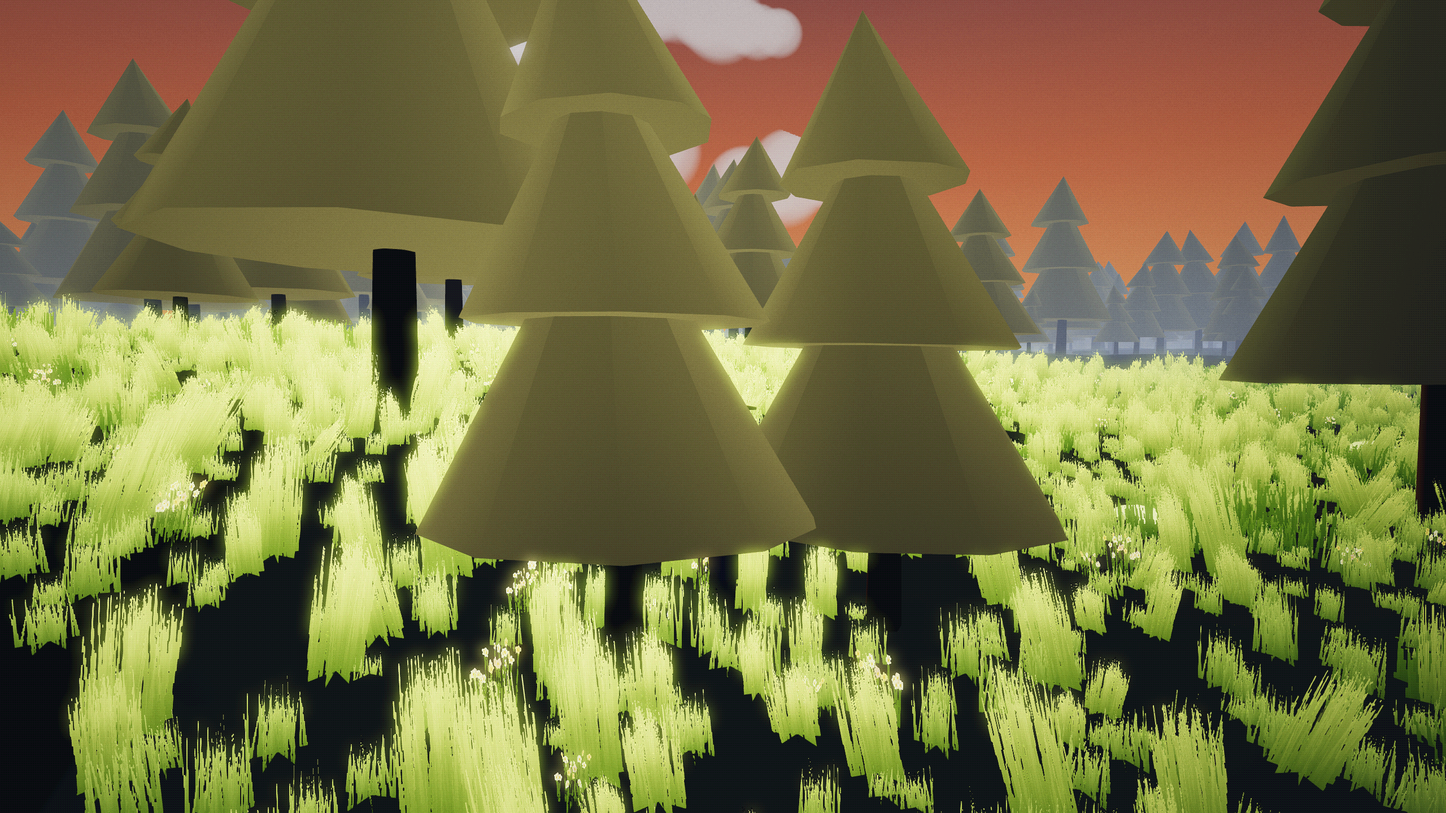
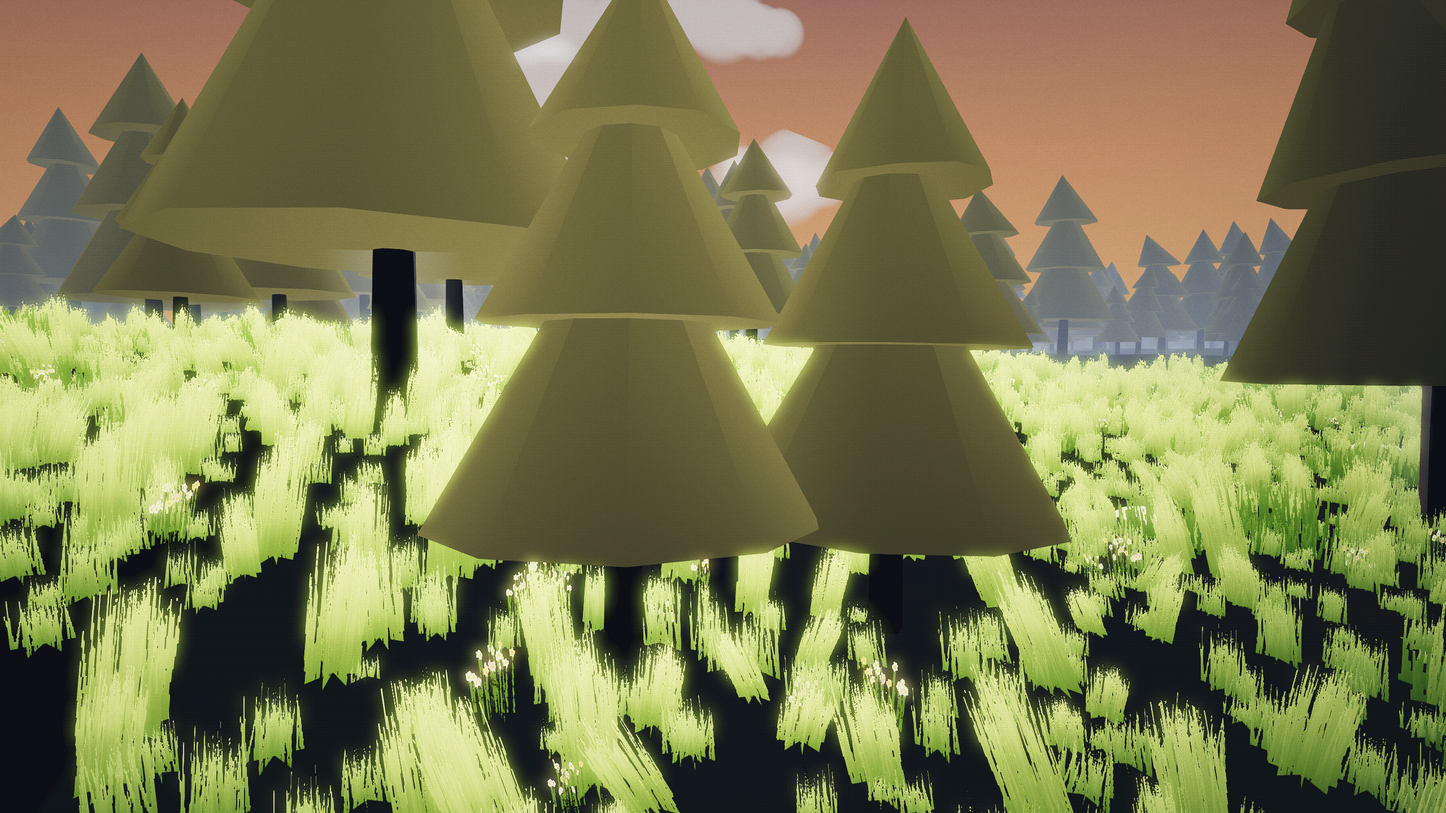
LA ROUTE : plus de trous noirs, lever adouci, et les réglages dans F1
- haze.js : plancher de ciel diffus sur tout le décor. Sous un soleil
  rasant une surface horizontale reçoit N·L ~ 0 et tombe au noir ; le ciel
  éclaire toujours un peu. Sans ce terme, l'aube et le couchant creusaient
  des trous noirs entre les touffes. Le plancher suit l'ambiante du moment.
- grass.js : même plancher sur les brins — leurs cartes ont une normale
  verticale, ils étaient les premiers à s'éteindre au rasant.
- Palettes de lever et de couchant adoucies : à saturation 1,3 le rouge
  brique virait à la tomate.
- overlay F1 : les trois leviers d'étalonnage sont maintenant des curseurs
  vivants — heure, saturation, brume, bloom. Les anciens curseurs soleil et
  brume écrivaient des valeurs que le cycle jour/nuit réécrit chaque frame,
  ils étaient devenus inopérants.

Claude-Session: https://claude.ai/code/session_01XWhNifPuTPP1yCtC4v4JtE

diff --git a/la-route/src/ui/overlay.js b/la-route/src/ui/overlay.js
@@ -14,20 +14,31 @@ export function createOverlay(engine, scene, refs) {
     <div style="letter-spacing:.3em;color:#ffb066;margin-bottom:6px">LA ROUTE — PERF</div>
     <canvas id="fg" width="256" height="64" style="display:block;background:rgba(0,0,0,.35);border-radius:4px"></canvas>
     <div id="stats" style="margin:8px 0"></div>
-    <label style="display:block">soleil <input id="sunA" type="range" min="-80" max="80" value="-20" style="width:150px"></label>
-    <label style="display:block">brume <input id="fogD" type="range" min="0" max="40" value="6" style="width:150px"></label>
+    <label style="display:block">heure <input id="tod" type="range" min="0" max="1000" value="400" style="width:150px"></label>
+    <label style="display:block">saturation <input id="sat" type="range" min="80" max="200" value="130" style="width:150px"></label>
+    <label style="display:block">brume <input id="haze" type="range" min="0" max="200" value="55" style="width:150px"></label>
+    <label style="display:block">bloom <input id="bloom" type="range" min="0" max="120" value="42" style="width:150px"></label>
   `;
   document.body.appendChild(root);
 
   const fg = root.querySelector('#fg').getContext('2d');
   const stats = root.querySelector('#stats');
 
-  root.querySelector('#sunA').addEventListener('input', (e) => {
-    const a = (+e.target.value) * Math.PI / 180;
-    refs.sun.direction.set(Math.sin(a) * 0.8, -Math.max(0.12, Math.cos(a) * 0.5), 0.75);
+  // Les trois leviers d'étalonnage : à caler sur l'écran du joueur, puisque
+  // le rendu de développement (WebGL logiciel) est plus terne que le vrai.
+  // L'ancien curseur « soleil » écrivait sun.direction, que le cycle
+  // jour/nuit réécrit chaque frame — il est remplacé par l'heure elle-même.
+  root.querySelector('#tod').addEventListener('input', (e) => {
+    if (refs.weather) refs.weather.setTime((+e.target.value) / 1000);
   });
-  root.querySelector('#fogD').addEventListener('input', (e) => {
-    refs.fog.fogDensity = (+e.target.value) / 1000;
+  root.querySelector('#sat').addEventListener('input', (e) => {
+    if (refs.retro) refs.retro.cfg.sat = (+e.target.value) / 100;
+  });
+  root.querySelector('#haze').addEventListener('input', (e) => {
+    if (refs.haze) refs.haze.scale = (+e.target.value) / 55;
+  });
+  root.querySelector('#bloom').addEventListener('input', (e) => {
+    if (refs.post) refs.post.setBloom((+e.target.value) / 100);
   });
 
   // M7 : cases A/B des passes de post (si la chaîne est branchée)

diff --git a/la-route/src/world/haze.js b/la-route/src/world/haze.js
@@ -23,9 +23,10 @@ export class HazePlugin extends MaterialPluginBase {
         { name: 'hzD', size: 1, type: 'float' },
         { name: 'hzTop', size: 1, type: 'float' },
         { name: 'hzCol', size: 3, type: 'vec3' },
+        { name: 'hzAmb', size: 3, type: 'vec3' },
       ],
       fragment: `#ifdef HAZE
-uniform float hzD; uniform float hzTop; uniform vec3 hzCol;
+uniform float hzD; uniform float hzTop; uniform vec3 hzCol; uniform vec3 hzAmb;
 #endif`,
     };
   }
@@ -33,12 +34,18 @@ uniform float hzD; uniform float hzTop; uniform vec3 hzCol;
     ubo.updateFloat('hzD', hazeShared.d);
     ubo.updateFloat('hzTop', hazeShared.top);
     ubo.updateFloat3('hzCol', hazeShared.r, hazeShared.g, hazeShared.b);
+    ubo.updateFloat3('hzAmb', hazeShared.ar, hazeShared.ag, hazeShared.ab);
   }
   getCustomCode(shaderType) {
     if (shaderType !== 'fragment') return null;
     return {
       CUSTOM_FRAGMENT_BEFORE_FRAGCOLOR: `
 #ifdef HAZE
+        // Plancher de ciel diffus : sous un soleil rasant, une surface
+        // horizontale reçoit N·L ~ 0 et tombe au noir. Le ciel, lui, éclaire
+        // toujours un peu — sans ce terme, l'aube et le couchant creusent des
+        // trous noirs entre les touffes et sous les arbres.
+        color.rgb += baseColor.rgb * hzAmb;
         float hzDist = length(vEyePosition.xyz - vPositionW);
         // Hauteur RELATIVE à l'œil, pas absolue : le monde descend jusqu'à
         // −40 m le long de la route, une altitude absolue aurait plongé tout

diff --git a/la-route/src/main.js b/la-route/src/main.js
@@ -387,7 +387,8 @@ async function start() {
   // la brume de vallée étage les plans (posée en dernier, sur tout le décor)
   applyHaze(scene, ['skyMat', 'waterFoamM', 'waterRipM']);
 
-  const overlay = createOverlay(engine, scene, { sun, fog: scene, post, retro });
+  const overlay = createOverlay(engine, scene,
+    { sun, fog: scene, post, retro, weather, haze: hazeShared });
 
   const WALK = 2.2, RUN = 6.5, ACCEL = 26, DAMP = 10;
   let last = performance.now();
@@ -574,8 +575,12 @@ async function start() {
     clouds.update(dt, weather.sunHeight(), weather.cloudiness(), focAx, focAz, state.camYaw);
     // la nappe de brume prend la couleur du brouillard du moment et
     // s'épaissit au petit matin, sous l'averse et par temps de brume
-    hazeShared.d = 0.0055 + weather.rainEase() * 0.004
-      + Math.max(0, 0.24 - weather.sunHeight()) * 0.016;
+    hazeShared.d = (0.0055 + weather.rainEase() * 0.004
+      + Math.max(0, 0.24 - weather.sunHeight()) * 0.016) * (hazeShared.scale || 1);
+    // le plancher de ciel suit l'ambiante du moment : bleu la nuit, franc le jour
+    hazeShared.ar = amb.diffuse.r * amb.intensity * 0.2;
+    hazeShared.ag = amb.diffuse.g * amb.intensity * 0.21;
+    hazeShared.ab = amb.diffuse.b * amb.intensity * 0.24;
     hazeShared.r = scene.fogColor.r * 1.18 + 0.1;
     hazeShared.g = scene.fogColor.g * 1.18 + 0.12;
     hazeShared.b = scene.fogColor.b * 1.18 + 0.16;

diff --git a/la-route/src/world/weather.js b/la-route/src/world/weather.js
@@ -86,12 +86,12 @@ const POS = {
 const HEX = {
   nuit: ['#050914', '#0a1026', '#111c3c', '#1a2650', '#0e1730', '#070c1a', '#04060e'],
   aube: ['#0a1130', '#16224c', '#33356a', '#6b4668', '#3a2c48', '#141527', '#070a14'],
-  lever: ['#1d3060', '#3a5490', '#8d6b96', '#eda06a', '#c06848', '#4a3450', '#151122'],
+  lever: ['#28457e', '#4d6cac', '#9a86ac', '#f2b884', '#d99a72', '#5e4660', '#1c1728'],
   matin: ['#1f56a8', '#4180cc', '#84b2dc', '#e6cfa2', '#a89880', '#4a5464', '#1e2736'],
   jour: ['#0b4fd4', '#2b7ae4', '#6cadec', '#a8d4f2', '#8fbcda', '#5c82a0', '#2c3a48'],
   aprem: ['#2360c4', '#4a88d2', '#94c0dc', '#e8dcb6', '#b8a684', '#5c6874', '#2a2f3a'],
   crep: ['#264c92', '#4a6ea8', '#a08ea0', '#e8a25c', '#b87a4a', '#4a5a74', '#1c3050'],
-  couchant: ['#152a5e', '#2d4076', '#7d5072', '#d66a3a', '#8b4028', '#33344f', '#101828'],
+  couchant: ['#1a3068', '#35487e', '#84587a', '#e08a52', '#a85e3c', '#3a3c56', '#121a2c'],
   bleue: ['#0c1738', '#182354', '#3a3668', '#6a415a', '#43314b', '#1a1d35', '#080c18'],
 };
 // hex parsés UNE fois en triplets [r, g, b] pré-alloués

diff --git a/la-route/src/vegetation/grass.js b/la-route/src/vegetation/grass.js
@@ -79,6 +79,11 @@ uniform float grTransl; uniform vec3 grSun;
         float grUp = dot(baseColor.rgb, vec3(0.33, 0.5, 0.17));
         color.rgb += vec3(0.78, 0.86, 0.30) * pow(grBack, 2.2)
                    * (0.25 + 1.5 * grUp) * grTransl * baseColor.rgb * 2.2;
+        // plancher d'éclairage : la carte a une normale VERTICALE, donc au
+        // soleil rasant N·L tombe à zéro et le brin devient noir. Une herbe
+        // réelle capte toujours un peu de ciel — sans ce terme, l'aube et le
+        // couchant creusent des trous noirs entre les touffes.
+        color.rgb += baseColor.rgb * vec3(0.13, 0.17, 0.16);
 #endif
 `,
       };

diff --git a/la-route/src/retro.js b/la-route/src/retro.js
@@ -65,7 +65,7 @@ export function createRetro(scene, camera) {
     ['rtLevels', 'rtDither', 'rtSat', 'rtLift'], null, 1.0, camera);
   // lift discret : à 0,115 de bleu, les surfaces sombres (la chaussée) viraient
   // franchement au bleu-gris — les ombres doivent être bleutées, pas le sol
-  const cfg = { levels: 30, dither: 0.9, sat: 1.3, lift: [0.028, 0.036, 0.056] };
+  const cfg = { levels: 30, dither: 0.9, sat: 1.3, lift: [0.036, 0.046, 0.072] };
   pp.onApply = (effect) => {
     effect.setFloat('rtLevels', cfg.levels);
     effect.setFloat('rtDither', cfg.dither);

diff --git a/la-route/src/vegetation/wind.js b/la-route/src/vegetation/wind.js
@@ -24,7 +24,10 @@ export const sunShared = { x: -0.62, y: -0.3, z: -0.75 };
  * jour par le cycle météo. C'est elle qui étage les plans — le sol lointain
  * se noie pendant que les cimes émergent.
  */
-export const hazeShared = { d: 0.02, top: 26, r: 0.62, g: 0.7, b: 0.82 };
+export const hazeShared = {
+  d: 0.02, top: 26, r: 0.62, g: 0.7, b: 0.82,
+  ar: 0.1, ag: 0.12, ab: 0.15,          // plancher de ciel diffus
+};
 
 export class WindPlugin extends MaterialPluginBase {
   constructor(material, opts = {}) {

diff --git a/la-route/src/post.js b/la-route/src/post.js
@@ -78,5 +78,8 @@ export function createPost(scene, camera) {
     }
   };
 
-  return { setExposure, getExposure, update, set, has };
+  /** force du bloom, réglable à chaud depuis l'overlay */
+  const setBloom = (w) => { pipe.bloomWeight = w; };
+
+  return { setExposure, getExposure, update, set, has, setBloom };
 }
